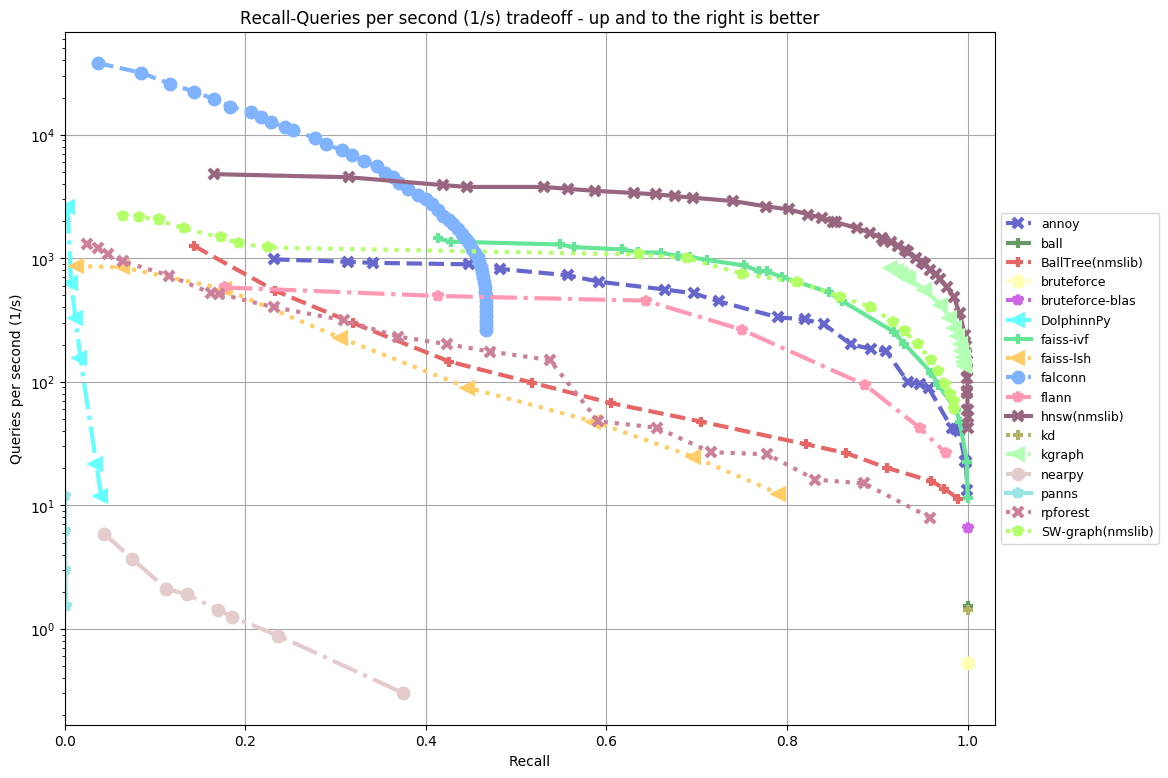
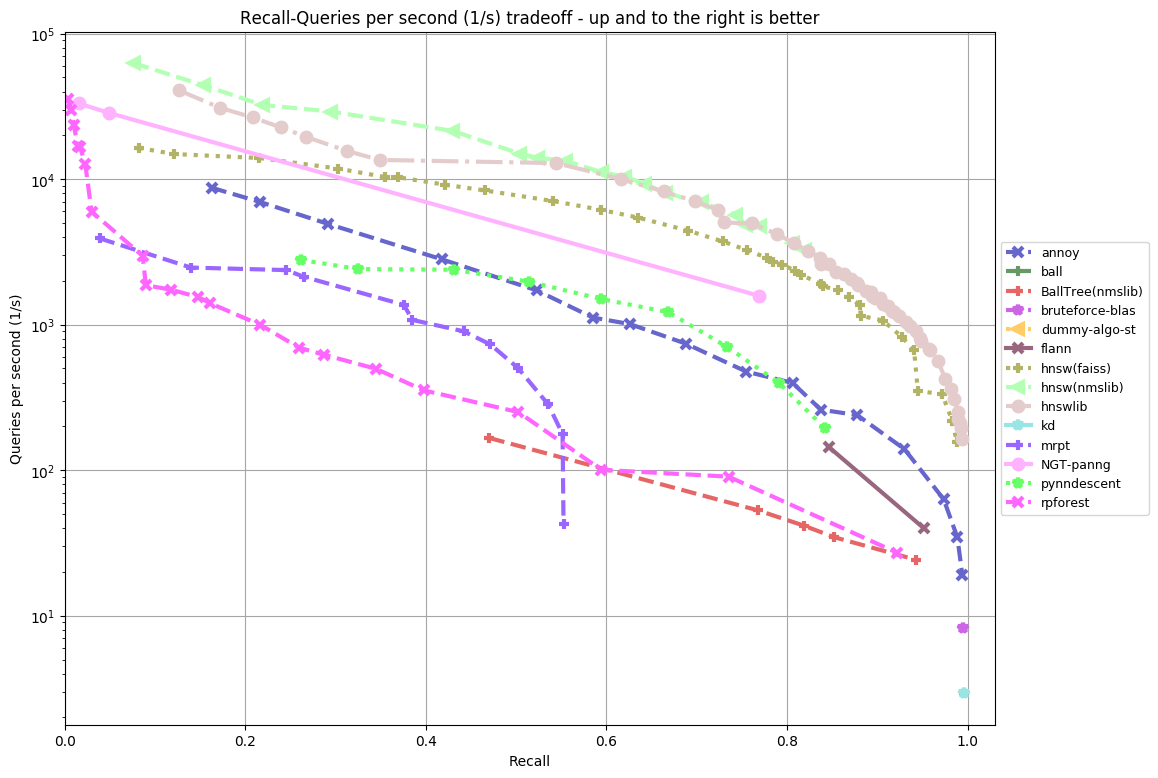
fix angular distance for mrpt

diff --git a/ann_benchmarks/algorithms/mrpt.py b/ann_benchmarks/algorithms/mrpt.py
@@ -1,4 +1,5 @@
 from __future__ import absolute_import
+import sklearn.preprocessing
 import mrpt
 from ann_benchmarks.algorithms.base import BaseANN
 
@@ -9,6 +10,9 @@ class MRPT(BaseANN):
         self._votes_required = None
 
     def fit(self, X):
+        if self._metric == 'angular':
+            X = sklearn.preprocessing.normalize(X, axis=1, norm='l2')
+
         self._index = mrpt.MRPTIndex(X, depth=self._depth, n_trees=self._n_trees)
         self._index.build()
 
@@ -16,6 +20,9 @@ class MRPT(BaseANN):
         self._votes_required = votes_required
 
     def query(self, v, n):
+        if self._metric == 'angular':
+            v /= numpy.linalg.norm(v)
+
         return self._index.ann(v, n, votes_required=self._votes_required)
 
     def __str__(self):

diff --git a/ann_benchmarks/algorithms/faiss.py b/ann_benchmarks/algorithms/faiss.py
@@ -2,6 +2,7 @@ from __future__ import absolute_import
 import sys
 sys.path.append("install/lib-faiss")
 import numpy
+import sklearn.preprocessing
 import ctypes
 import faiss
 from ann_benchmarks.algorithms.base import BaseANN
@@ -32,7 +33,6 @@ class FaissLSH(BaseANN):
                 r.append((l, d))
         return r
 
-import sklearn.preprocessing
 
 class FaissIVF(BaseANN):
     def __init__(self, metric, n_list):
